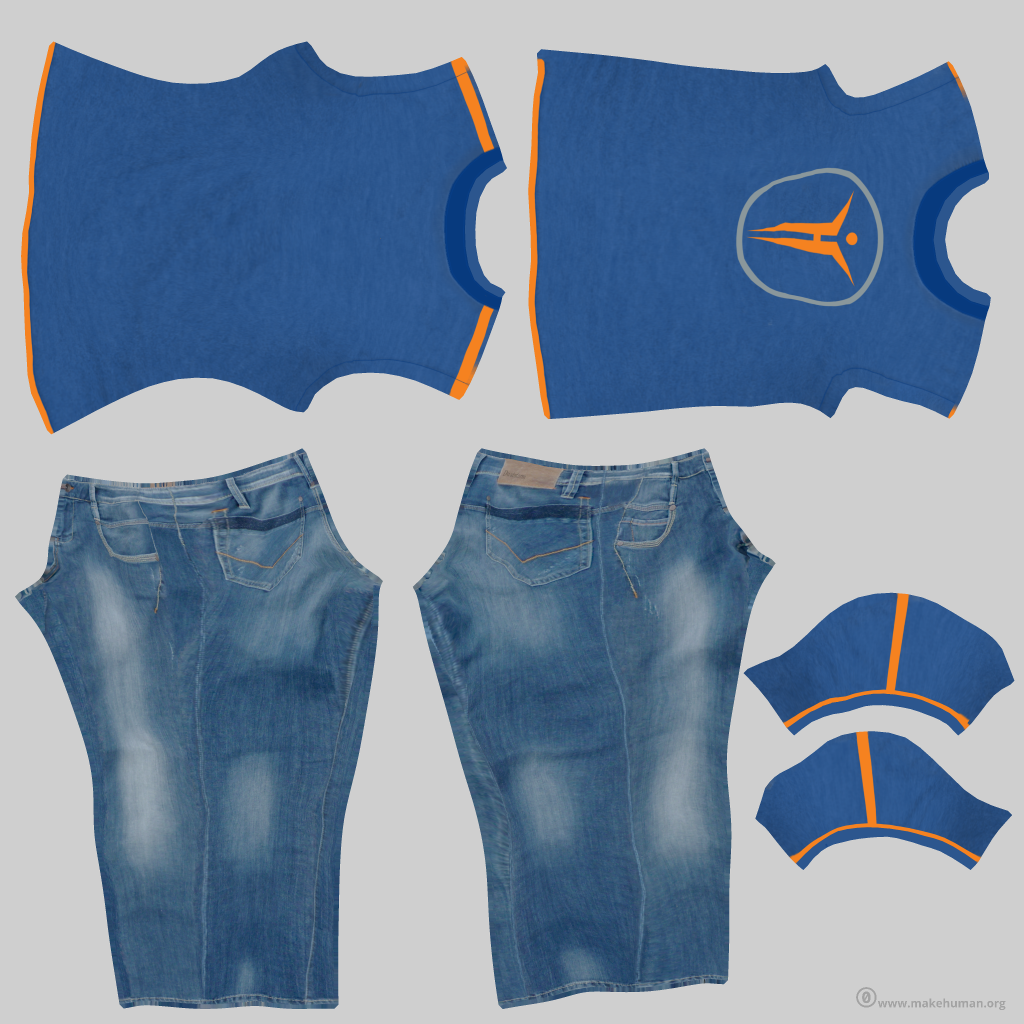
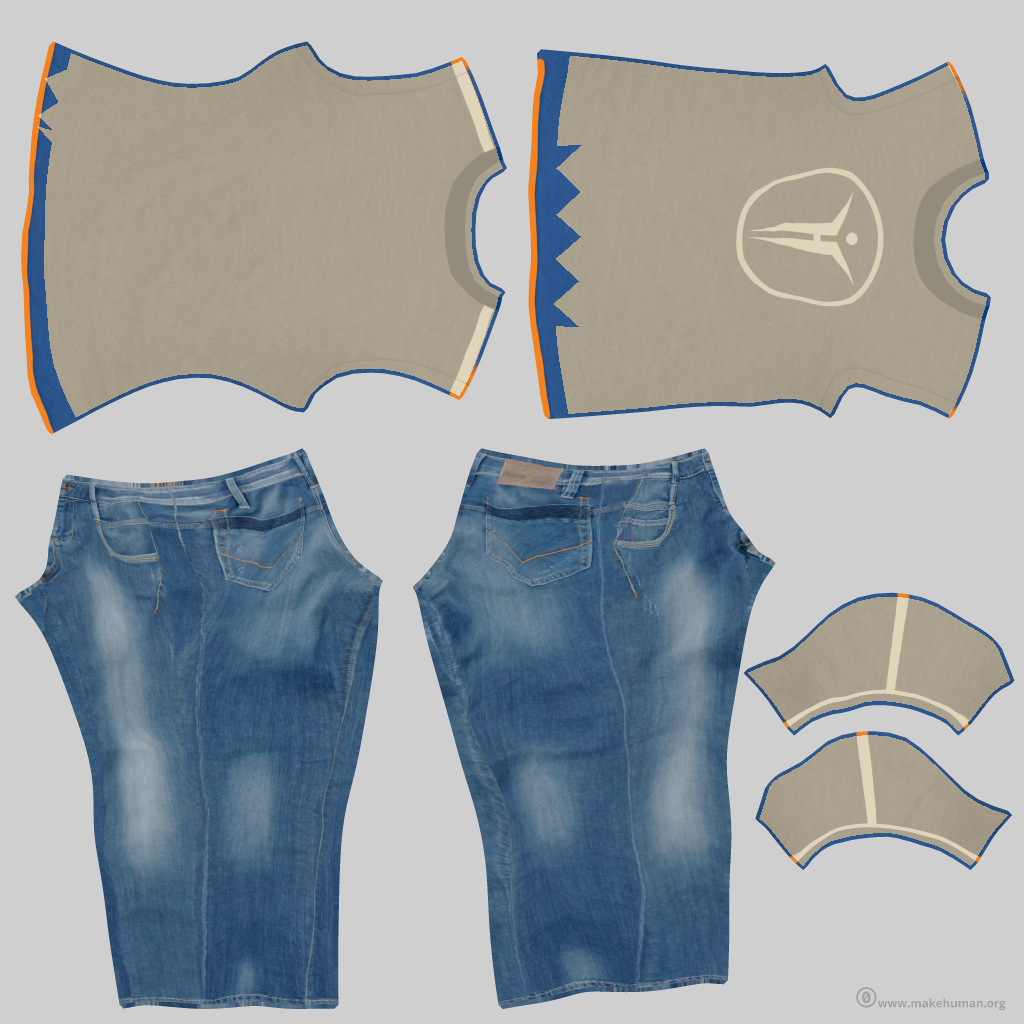
Janie walks in the game (pick own animation) with cream top baked into texture; touch controls + UI scaling for phones; film: beach-ball toss and Cooper's chase

Changed region(s): [[0.0312, 0.0312, 0.5, 0.4062], [0.5312, 0.0312, 0.9688, 0.4062], [0.7188, 0.5625, 1.0, 0.8438]]

diff --git a/janiecooper/final_scene.py b/janiecooper/final_scene.py
@@ -1,4 +1,4 @@
-"""Janie & Cooper at Niguel Heights Park - final shot.
+"""Janie & Cooper at Niguel Heights Park - final shot.
 
 Run on park.blend:  blender --background park.blend --python final_scene.py -- [stills|render]
 Map data (c) OpenStreetMap contributors, ODbL.
@@ -130,6 +130,81 @@ for f in range(1, FRAMES + 2, 2):
     crig.rotation_euler = (0, math.radians(0), heading - math.pi / 2)  # Cooper's rest pose faces +Y
     crig.keyframe_insert("location", frame=f); crig.keyframe_insert("rotation_euler", frame=f)
 
+# ------------------------------------------------ Cooper's beach ball: Janie tosses it ahead, it bounces and rolls, Cooper chases
+BALL_R = 0.20
+def beach_ball_material():
+    m = bpy.data.materials.new("BeachBall"); m.use_nodes = True
+    nt = m.node_tree; N = nt.nodes; L = nt.links
+    b = N["Principled BSDF"]; b.inputs["Roughness"].default_value = 0.25
+    tc = N.new("ShaderNodeTexCoord")
+    grad = N.new("ShaderNodeTexGradient"); grad.gradient_type = "RADIAL"   # angle around the ball's axis, 0..1
+    L.new(tc.outputs["Object"], grad.inputs["Vector"])
+    ramp = N.new("ShaderNodeValToRGB"); ramp.color_ramp.interpolation = "CONSTANT"
+    cols = [(0.95, 0.35, 0.05), (0.92, 0.9, 0.85), (0.85, 0.08, 0.06), (0.97, 0.72, 0.10), (0.92, 0.9, 0.85), (0.95, 0.35, 0.05)]
+    els = ramp.color_ramp.elements
+    els[0].position = 0.0; els[0].color = (*cols[0], 1)
+    els[1].position = 1 / 6; els[1].color = (*cols[1], 1)
+    for k in range(2, 6):
+        e = els.new(k / 6); e.color = (*cols[k], 1)
+    L.new(grad.outputs["Fac"], ramp.inputs["Fac"]); L.new(ramp.outputs["Color"], b.inputs["Base Color"])
+    return m
+
+bpy.ops.mesh.primitive_uv_sphere_add(radius=BALL_R, segments=48, ring_count=24)
+ball = bpy.context.active_object; ball.name = "BeachBall"
+bpy.ops.object.shade_smooth()
+ball.data.materials.append(beach_ball_material())
+ball_pivot = bpy.data.objects.new("BallPivot", None); sc.collection.objects.link(ball_pivot)
+ball.parent = ball_pivot; ball.location = (0, 0, 0)
+
+THROW, LAND = 118, 146                     # Janie releases at THROW, first bounce at LAND
+def ball_pos(f):
+    """Ball (x, y, z) and heading for frame f."""
+    dist_j = WALK_SPEED * (f - 1) / FPS
+    if f < THROW:                          # held at Janie's side (small, mostly hidden by her hand)
+        p, d = along(dist_j)
+        side = Vector((-d.y, d.x))
+        q = p - side * 0.22
+        return Vector((q.x, q.y, 0.95)), d
+    p_throw, d = along(WALK_SPEED * (THROW - 1) / FPS)
+    land_dist = WALK_SPEED * (THROW - 1) / FPS + 3.2
+    if f <= LAND:                          # arc from her hand to the path ahead
+        t = (f - THROW) / (LAND - THROW)
+        dd = WALK_SPEED * (THROW - 1) / FPS + 3.2 * t
+        p, d = along(dd)
+        z = (0.95 * (1 - t)) + BALL_R * t + 1.1 * math.sin(math.pi * t)
+        return Vector((p.x, p.y, z)), d
+    # after landing: rolls ahead, a couple of shrinking bounces, slowly let Cooper close in
+    t = (f - LAND) / FPS
+    dd = land_dist + WALK_SPEED * 0.85 * t + 0.6 * (1 - math.exp(-2.5 * t))
+    p, d = along(dd)
+    bounce = abs(math.sin(t * math.pi * 2.2)) * 0.35 * math.exp(-2.8 * t)
+    return Vector((p.x, p.y, BALL_R + bounce)), d
+
+prev = None; roll = 0.0
+for f in range(1, FRAMES + 2):
+    pos, d = ball_pos(f)
+    if prev is not None and f > THROW:
+        roll += (Vector((pos.x, pos.y)) - Vector((prev.x, prev.y))).length / BALL_R
+    prev = pos
+    ball_pivot.location = pos
+    ball_pivot.rotation_euler = (0, 0, math.atan2(d.y, d.x))
+    ball.rotation_euler = (0, roll, 0)      # roll about the pivot's sideways axis
+    if f % 2 == 1:
+        ball_pivot.keyframe_insert("location", frame=f); ball_pivot.keyframe_insert("rotation_euler", frame=f)
+        ball.keyframe_insert("rotation_euler", frame=f)
+
+# Cooper spots the ball and chases it: after the throw he pulls ahead of Janie toward it
+for f in range(THROW, FRAMES + 2, 2):
+    t = min(1.0, (f - THROW) / 40)
+    bp, d = ball_pos(f)
+    jp, _ = along(WALK_SPEED * (f - 1) / FPS)
+    target = Vector((bp.x, bp.y)) - d * 0.75                 # just behind the ball
+    home = jp + d * 0.35 - cam_side * 0.75
+    cp = home.lerp(target, t * 0.85)
+    crig.location = (cp.x, cp.y, 0.0)
+    crig.rotation_euler = (0, 0, math.atan2(d.y, d.x) - math.pi / 2)
+    crig.keyframe_insert("location", frame=f); crig.keyframe_insert("rotation_euler", frame=f)
+
 # ------------------------------------------------ camera: aerial glide down into a tracking shot
 target = bpy.data.objects.new("CamTarget", None); sc.collection.objects.link(target)
 cd = bpy.data.cameras.new("Hero"); cd.lens = 32; cd.clip_end = 3000
@@ -178,8 +253,8 @@ fac = mx.inputs["Fac"]
 fac.default_value = 0.0; fac.keyframe_insert("default_value", frame=205)
 fac.default_value = 1.0; fac.keyframe_insert("default_value", frame=240)
 title = text_obj("Janie & Cooper", 0.062, (0, 0.175, -1.0))
-sub = text_obj("Niguel Heights Park  ·  Laguna Niguel", 0.024, (0, 0.125, -1.0))
-credit = text_obj("Map data © OpenStreetMap contributors", 0.012, (0.37, -0.2, -1.0), "RIGHT")
+sub = text_obj("Niguel Heights Park  Â·  Laguna Niguel", 0.024, (0, 0.125, -1.0))
+credit = text_obj("Map data Â© OpenStreetMap contributors", 0.012, (0.37, -0.2, -1.0), "RIGHT")
 for t in (title, sub, credit):
     t.data.materials.append(tm)
 # soft drop shadow behind the title lines so they read against the bright sky

diff --git a/janiecooper/export_game_assets.py b/janiecooper/export_game_assets.py
@@ -56,6 +56,55 @@ def shrink_textures(limit):
 shrink_textures(MAX_TEX)
 
 
+def bake_top_colour(color=(0.72, 0.68, 0.60)):
+    """The film recolours Janie's t-shirt with a shader mix (attribute 'is_top'), which glTF can't carry.
+    Paint that recolour into the outfit texture instead: every UV triangle of a 'top' face becomes cream,
+    keeping the fabric's shading from the original pixels."""
+    import numpy as np
+    ob = next((o for o in bpy.data.objects if o.type == "MESH" and "casualsuit" in o.name), None)
+    if not ob or "is_top" not in ob.data.attributes:
+        return
+    me = ob.data
+    img = None
+    for s in ob.material_slots:
+        for n in (s.material.node_tree.nodes if s.material and s.material.use_nodes else []):
+            if n.type == "TEX_IMAGE" and n.image and "diffuse" in n.image.name:
+                img = n.image
+    if img is None:
+        return
+    w, h = img.size
+    px = np.empty(w * h * 4, dtype=np.float32); img.pixels.foreach_get(px); px = px.reshape(h, w, 4)
+    top = np.empty(len(me.vertices), dtype=np.float32); me.attributes["is_top"].data.foreach_get("value", top)
+    uv = me.uv_layers.active.data
+    lum = px[..., :3] @ np.array([0.3, 0.59, 0.11], dtype=np.float32)
+    ref = float(np.median(lum)) or 0.5
+    mask = np.zeros((h, w), dtype=bool)
+    me.calc_loop_triangles()
+    for tri in me.loop_triangles:
+        if top[list(tri.vertices)].mean() < 0.5:
+            continue
+        p = np.array([uv[l].uv[:] for l in tri.loops]) * [w, h]
+        x0, y0 = np.floor(p.min(0)).astype(int); x1, y1 = np.ceil(p.max(0)).astype(int)
+        x0, y0 = max(x0, 0), max(y0, 0); x1, y1 = min(x1, w - 1), min(y1, h - 1)
+        if x1 < x0 or y1 < y0:
+            continue
+        ys, xs = np.mgrid[y0:y1 + 1, x0:x1 + 1] + 0.5
+        (ax, ay), (bx, by), (cx, cy) = p
+        d = (by - cy) * (ax - cx) + (cx - bx) * (ay - cy)
+        if abs(d) < 1e-9:
+            continue
+        l1 = ((by - cy) * (xs - cx) + (cx - bx) * (ys - cy)) / d
+        l2 = ((cy - ay) * (xs - cx) + (ax - cx) * (ys - cy)) / d
+        inside = (l1 >= -0.01) & (l2 >= -0.01) & (1 - l1 - l2 >= -0.01)
+        mask[y0:y1 + 1, x0:x1 + 1] |= inside
+    shade = np.clip(0.6 + 0.4 * lum / ref, 0.4, 1.3)[..., None]
+    px[..., :3] = np.where(mask[..., None], np.array(color, dtype=np.float32) * shade, px[..., :3])
+    img.pixels.foreach_set(px.ravel()); img.update()
+    print("[EXPORT] painted Janie's top cream:", int(mask.sum()), "texels of", img.name)
+
+bake_top_colour()
+
+
 def select_only(objs):
     bpy.ops.object.select_all(action="DESELECT")
     for o in objs:
